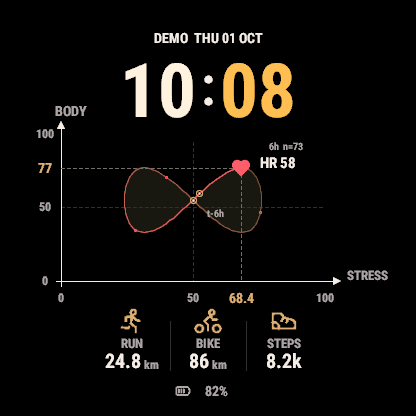
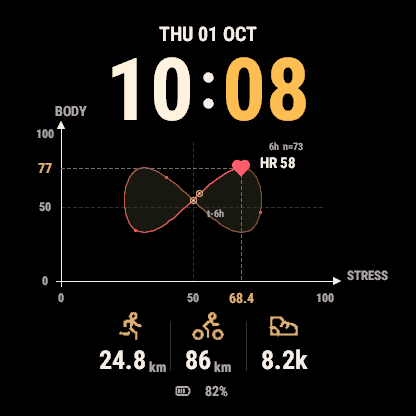
feat: add monthly activity totals and broaden watch support

diff --git a/scripts/test.py b/scripts/test.py
@@ -6,13 +6,15 @@ import re
 import subprocess
 import sys
 from pathlib import Path
+import xml.etree.ElementTree as ET
 
 ROOT = Path(__file__).resolve().parents[1]
 parser = argparse.ArgumentParser(description=__doc__)
-parser.add_argument('--device', choices=['fr265', 'fr265s', 'all'], default='all')
+devices = [p.attrib['id'] for p in ET.parse(ROOT/'manifest.xml').findall('.//{*}product')]
+parser.add_argument('--device', choices=devices+['all'], default='all')
 args = parser.parse_args()
 reports = []
-for device in (['fr265','fr265s'] if args.device == 'all' else [args.device]):
+for device in (devices if args.device == 'all' else [args.device]):
     build = subprocess.run([sys.executable,str(ROOT/'scripts/build.py'),'--device',device,'--test'],cwd=ROOT,capture_output=True,text=True)
     (ROOT/'build'/f'{device}-test-build.log').write_text(build.stdout+build.stderr)
     if build.returncode:

diff --git a/scripts/build.py b/scripts/build.py
@@ -5,10 +5,12 @@ import os
 import shutil
 import subprocess
 from pathlib import Path
+import xml.etree.ElementTree as ET
 
 ROOT = Path(__file__).resolve().parents[1]
 parser = argparse.ArgumentParser(description=__doc__)
-parser.add_argument('--device', choices=['fr265', 'fr265s'], default='fr265')
+devices = [p.attrib['id'] for p in ET.parse(ROOT/'manifest.xml').findall('.//{*}product')]
+parser.add_argument('--device', choices=devices, default='fr265')
 parser.add_argument('--test', action='store_true')
 parser.add_argument('--preview', action='store_true', help='Build an isolated simulator demo')
 parser.add_argument('--scenario', choices=['normal', 'missing', 'extreme', 'aod', 'loops'], default='normal')

diff --git a/README.md b/README.md
@@ -1,17 +1,17 @@
 # Locus
 
 A Garmin watch face that turns your changing physiology into a six-hour phase portrait.
-Built in Monkey C for the Forerunner 265 and 265S.
+Built in Monkey C for Forerunner and fēnix watches, with AMOLED and MIP display paths.
 
 <p align="center">
-  <img src="docs/images/fr265.png" width="300" alt="Locus on the FR265, simulator demo" />
-  <img src="docs/images/fr265-loops.png" width="300" alt="Locus with closed trajectories and intersection markers, simulator demo" />
+  <img src="docs/images/fr265.png" width="300" alt="Locus on the FR265, simulator illustration" />
+  <img src="docs/images/fr265-loops.png" width="300" alt="Locus with closed trajectories and intersection markers, simulator illustration" />
 </p>
 
 Warm ivory hours, golden minutes, and a flat coral heart keep the current moment in focus.
 A fine trajectory fades from the accent color toward the current point, with sparse observation
 marks, subtle closed-region fills, and highlighted intersections. Weekday and date sit above
-the time; device battery sits at the bottom. Screenshots show **DEMO** fixtures, not athlete data.
+the time; device battery sits at the bottom. Screenshots use illustrative values rendered in the official simulator.
 
 ## Configuration
 
@@ -22,18 +22,19 @@ Configure six positions from the watch's watch-face settings or the official pho
 | Current point and annotation | Heart rate |
 | Horizontal axis | Recovery time |
 | Vertical axis | Body Battery |
-| Lower left | Weekly run distance |
-| Lower center | Weekly bike distance |
+| Lower left | Run distance this month |
+| Lower center | Bike distance this month |
 | Lower right | Today's steps |
 
-Each position supports hidden, heart rate, recovery, Body Battery, weekly run/bike distance,
+Each position supports hidden, heart rate, recovery, Body Battery, monthly run/bike distance,
 steps, device battery, stress, Pulse Ox, respiration, running/cycling VO2 max, floors, and weekly
 intensity minutes. Labels, units, and icons follow the selected metric. Axes adapt their range;
 changing either axis starts a new trajectory. Heart size follows heart rate within fixed bounds.
 
 Six accent colors, 12/24-hour time, km/mi, date visibility, and always-on time are configurable.
 Unavailable data shows `--`. Training readiness and sleep are not offered without a supported
-public API. The separate AMOLED low-power screen displays only time.
+public API. The separate AMOLED low-power screen displays only time. Solar/MIP watches retain the full
+chart with minute updates and stronger trail contrast.
 
 ## Build and run
 
@@ -46,9 +47,10 @@ python3 scripts/build.py --device fr265 --release
 python3 scripts/build.py --device fr265s --release
 ```
 
-Outputs go to `build/locus-<device>-live.prg`. To sideload, connect the matching watch in file
-transfer mode, copy its PRG into `GARMIN/APPS/`, disconnect, and select **Locus** as the watch face.
-This repository has not been published to the Connect IQ Store.
+Outputs go to `build/locus-<device>-live.prg`. Install only the file matching your device;
+files containing `demo` or `tests` are simulator fixtures, not sideload builds. To sideload,
+connect the matching watch in file transfer mode, copy its PRG into `GARMIN/APPS/`, disconnect, and select **Locus** as the watch face.
+[Connect IQ Store](https://apps.garmin.com/apps/510184a4-d4fb-4bbf-adcc-6ad58fa3c84e).
 
 Start the official simulator before running the native suite:
 
@@ -56,7 +58,7 @@ Start the official simulator before running the native suite:
 python3 scripts/test.py
 ```
 
-To inspect a deterministic simulator demo:
+To inspect a deterministic simulator illustration:
 
 ```sh
 python3 scripts/build.py --preview
@@ -69,15 +71,37 @@ production builds; all generated output is ignored by Git.
 
 ## Data and limits
 
-Data comes from Garmin's native Complications API; there is no network service or account.
+Live metrics come from Garmin's native Complications API. Running and cycling distances are
+summed from saved activities exposed by `UserProfile.getUserActivityHistory()` for the current
+local calendar month, by activity start time and sport (running or cycling). The shoe shows
+today's step count, including steps taken while running, rather than walking distance.
+Monthly totals refresh on return to the face and at most every five minutes while active,
+and reset at the local month boundary. They cover history available on this watch; activities
+from other devices or deleted history may be absent even when present in Garmin Connect.
+There is no network service or account.
 Trajectory observations are stored locally, bounded to 73 samples over six hours. They are
-collected during normal active updates, at most once every five minutes. Low-power mode does
-not sample athlete data. Gaps longer than 15 minutes remain disconnected, so this is an observed
+collected during normal active updates, at most once every five minutes. AMOLED low-power mode
+does not sample athlete data. Gaps longer than 15 minutes remain disconnected, so this is an observed
 history rather than guaranteed continuous background monitoring.
 
-The FR265 (416 px) and FR265S (360 px) are supported build targets. Native simulator tests and
-screenshots do not establish physical-device compatibility or battery life; those checks remain
-outstanding.
+Supported device profiles are declared once in `manifest.xml`; both build and test commands
+read that list. `python3 scripts/test.py` verifies every declared profile serially.
+
+| Family | Variants | Display |
+| --- | --- | --- |
+| Forerunner 265 | 265, 265S | AMOLED, 416 / 360 px |
+| Forerunner 570 | 42 / 47 mm | AMOLED, 390 / 454 px |
+| Forerunner 965 / 970 | Both | AMOLED, 454 px |
+| fēnix E | 47 mm | AMOLED, 416 px |
+| fēnix 8 | 43 / 47 / 51 mm; Pro / MicroLED | AMOLED / MicroLED, 416 / 454 px |
+| fēnix 8 Solar | 47 / 51 mm | MIP, 260 / 280 px |
+| fēnix 9 | 43 / 47 / 51 mm | AMOLED, 416 / 454 px |
+| fēnix 9 Pro | 43 / 47 / 51 mm | AMOLED, 416 / 454 / 466 px |
+| fēnix 9 Pro Solar | 47 / 51 mm | MIP, 260 / 280 px |
+
+Garmin also groups corresponding tactix 8 and quatix 8 variants under the fēnix 8 device
+profiles. See the official [device list](https://developer.garmin.com/connect-iq/compatible-devices/).
+Native simulator tests and screenshots are separate from physical-device and battery-life testing.
 
 ## License
 

diff --git a/docs/DEVELOPMENT.md b/docs/DEVELOPMENT.md
@@ -3,7 +3,8 @@
 ## Toolchain
 
 Use Python 3.10+, OpenSSL, and the official Connect IQ SDK. The project is developed with SDK
-9.1.0 and targets the FR265 and FR265S with a minimum Connect IQ API level of 5.0.0.
+9.2.0 with current official device definitions and a minimum Connect IQ API level of 5.0.0.
+Supported targets are listed in the manifest and README; build/test choices use the manifest.
 No third-party Python packages are required.
 
 Create a developer key once, keep it private, and retain it for future updates:
@@ -21,7 +22,7 @@ DER key elsewhere. Keys, `private/`, and generated output must never be committe
 ## Structure
 
 - `source/`: application lifecycle, display-mode handling, and minute cache.
-- `source/data/`: native metric reads, field semantics, axis conversion, and bounded observations.
+- `source/data/`: native Complications and monthly activity reads, field semantics, axis conversion, and bounded observations.
 - `source/settings/`: typed properties and the watch configuration menu.
 - `source/render/`: chart, trajectory topology, reusable drawing, licensed icons, and time-only AOD.
 - `resources/` and `resources-zhs/`: icons, phone settings, and English / Simplified Chinese strings.
@@ -37,17 +38,19 @@ active, and initializes history lazily.
 ## Verification
 
 ```sh
-python3 scripts/test.py                     # Both supported devices; simulator must be running
+python3 scripts/test.py                     # All declared device profiles; simulator must be running
 python3 scripts/test.py --device fr265       # One device
 python3 scripts/build.py --device fr265 --release
 python3 scripts/build.py --device fr265s --release
 ```
 
 Current simulator captures: [FR265](images/fr265.png), [FR265 closed trace](images/fr265-loops.png),
-and [FR265S closed trace](images/fr265s-loops.png). All use isolated DEMO observations.
+and [FR265S closed trace](images/fr265s-loops.png). All show illustrative observations in the native renderer.
 
-Tests exercise metric conversions, missing and extreme data, field replacement, property reload,
-chart bounds, all six palettes, 73-point trajectories, loop geometry, intersections, history expiry,
+Tests exercise local calendar-month activity totals, sport filtering, invalid records, metric
+conversions, missing and extreme data, field replacement, property reload,
+display lifecycle on AMOLED and MIP, chart bounds, all six palettes, 73-point trajectories,
+loop geometry, intersections, history expiry,
 and the cold AOD path. The AOD luminance assertion is a conservative drawing envelope, not a
 hardware power measurement. Test logs and reports stay under ignored `build/`.
 
@@ -55,6 +58,6 @@ hardware power measurement. Test logs and reports stay under ignored `build/`.
 properties. Preview, test, and release modes cannot be combined. Compiler output is kept beneath `build/`; IDE caches in `bin/` are also ignored.
 
 For Store submission, export a release `.iq` package using the official Monkey C project export
-command and the same developer key. Include proper store assets and both target devices, then
+command and the same developer key. Include proper store assets and every declared device profile, then
 follow Garmin's [submission workflow](https://developer.garmin.com/connect-iq/submit-an-app/).
 A source push is separate from a Store release.

diff --git a/docs/PRIVACY.md b/docs/PRIVACY.md
@@ -10,13 +10,20 @@ server, account system, advertising, analytics, or network communication.
 ## Data used on your watch
 
 Depending on your selected fields and available device data, Locus reads native Garmin
-Complications for heart rate, recovery time, Body Battery, weekly running/cycling distance,
+Complications for heart rate, recovery time, Body Battery,
 steps, device battery, stress, Pulse Ox, respiration, running/cycling VO2 max, floors, and weekly
 intensity minutes. These values are used to render your chosen watch-face fields and axes.
 
+For monthly running and cycling totals, the UserProfile permission allows Locus to read the
+start time, sport type, and distance of saved activities exposed on your watch. Activities
+starting in the current local calendar month are summed in meters. Totals are cached in memory
+for up to five minutes and refreshed when returning to the face; activity records are not
+stored by Locus. Activities unavailable in the watch history cannot be included.
+
 Locus stores up to 73 timestamped observations of the two selected axis values in the watch's
 application storage. During active updates, observations outside the six-hour window are removed.
-No athlete observations are collected in the app's low-power or display-off path. Configuration
+No athlete observations are collected in the AMOLED low-power or display-off path. Solar/MIP
+watches retain the full chart and may collect observations during minute updates. Configuration
 preferences, such as selected metrics, units, colors, and time format, are stored on the device
 using Garmin application properties.
 

diff --git a/AGENTS.md b/AGENTS.md
@@ -14,7 +14,8 @@ the sole branch. The current coordinate-and-trajectory watch face is the only im
 - Field changes update label, unit, and icon together. Battery marks mean body/device battery;
   heart marks mean heart rate; hourglass marks mean recovery.
 - AMOLED has a separate time-only low-power path. Respect DISPLAY_MODE_OFF and LOW_POWER.
-  Do not load vector fonts or read athlete/history data in AOD.
+  Do not load vector fonts or read athlete/history data in AOD. MIP retains the full chart
+  on minute updates; guard AMOLED-only APIs by capability.
 - `build/`, `bin/`, `private/`, keys, and tokens are excluded from Git. Fixtures live under tests,
   visibly say DEMO, and are isolated from production. Release builds exclude tests and previews.
 - Retain icon provenance and upstream licenses. Keep documentation captures few and current;
